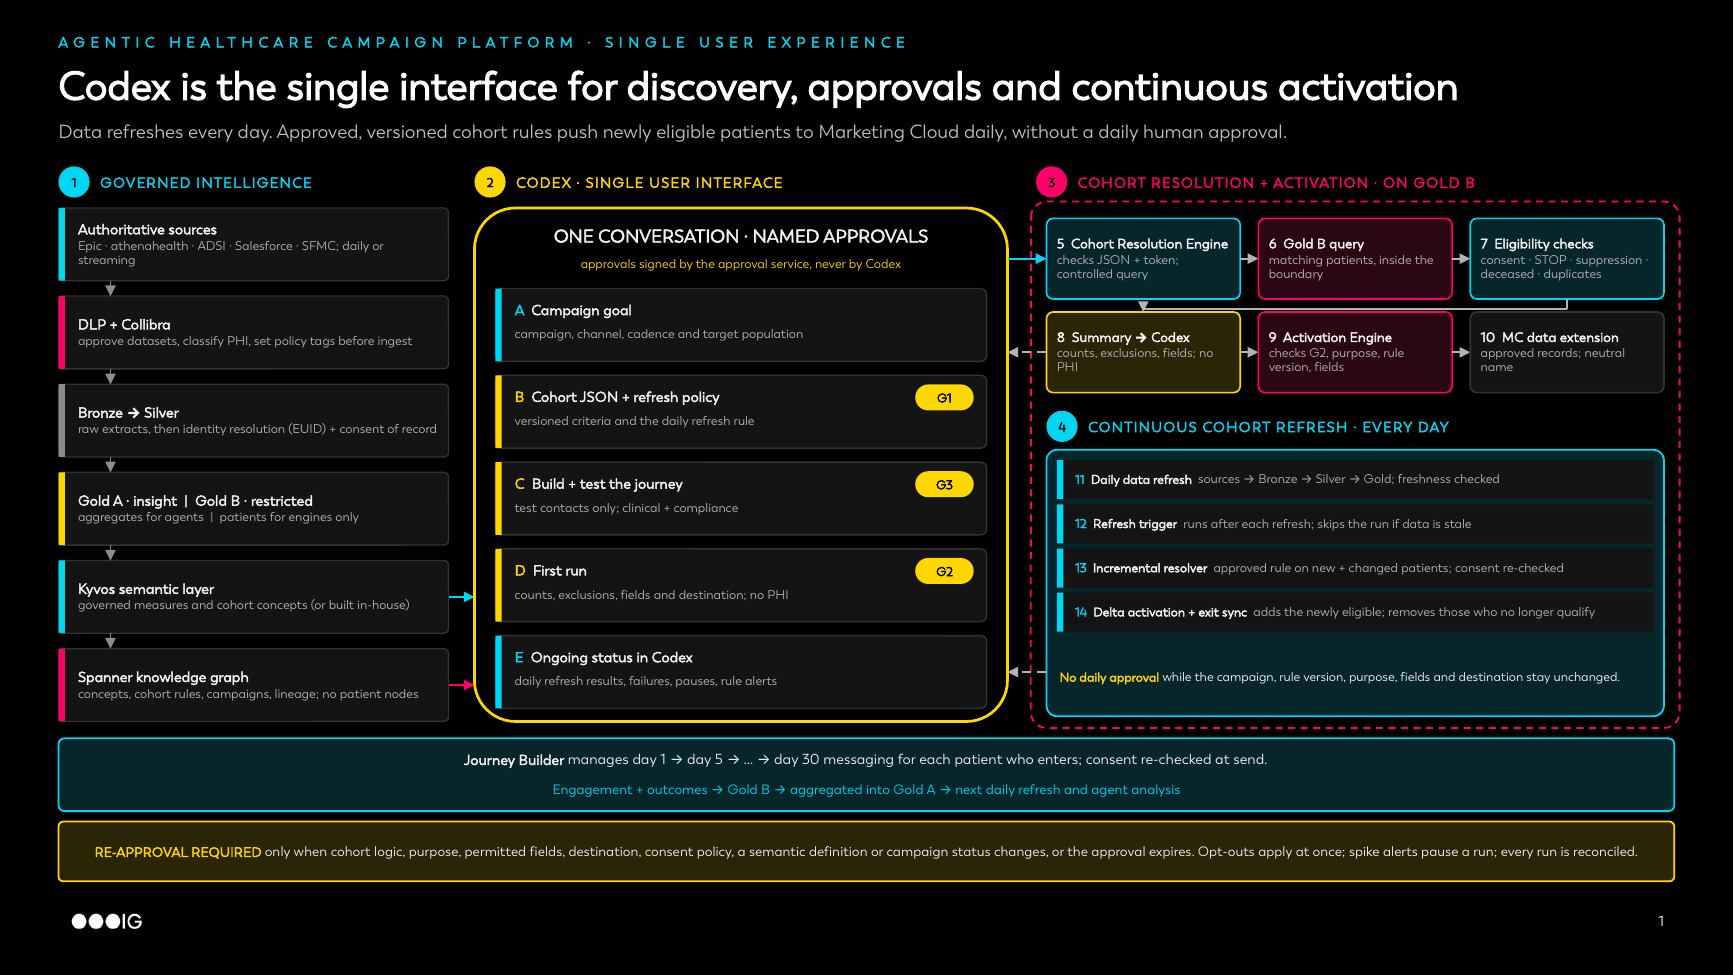
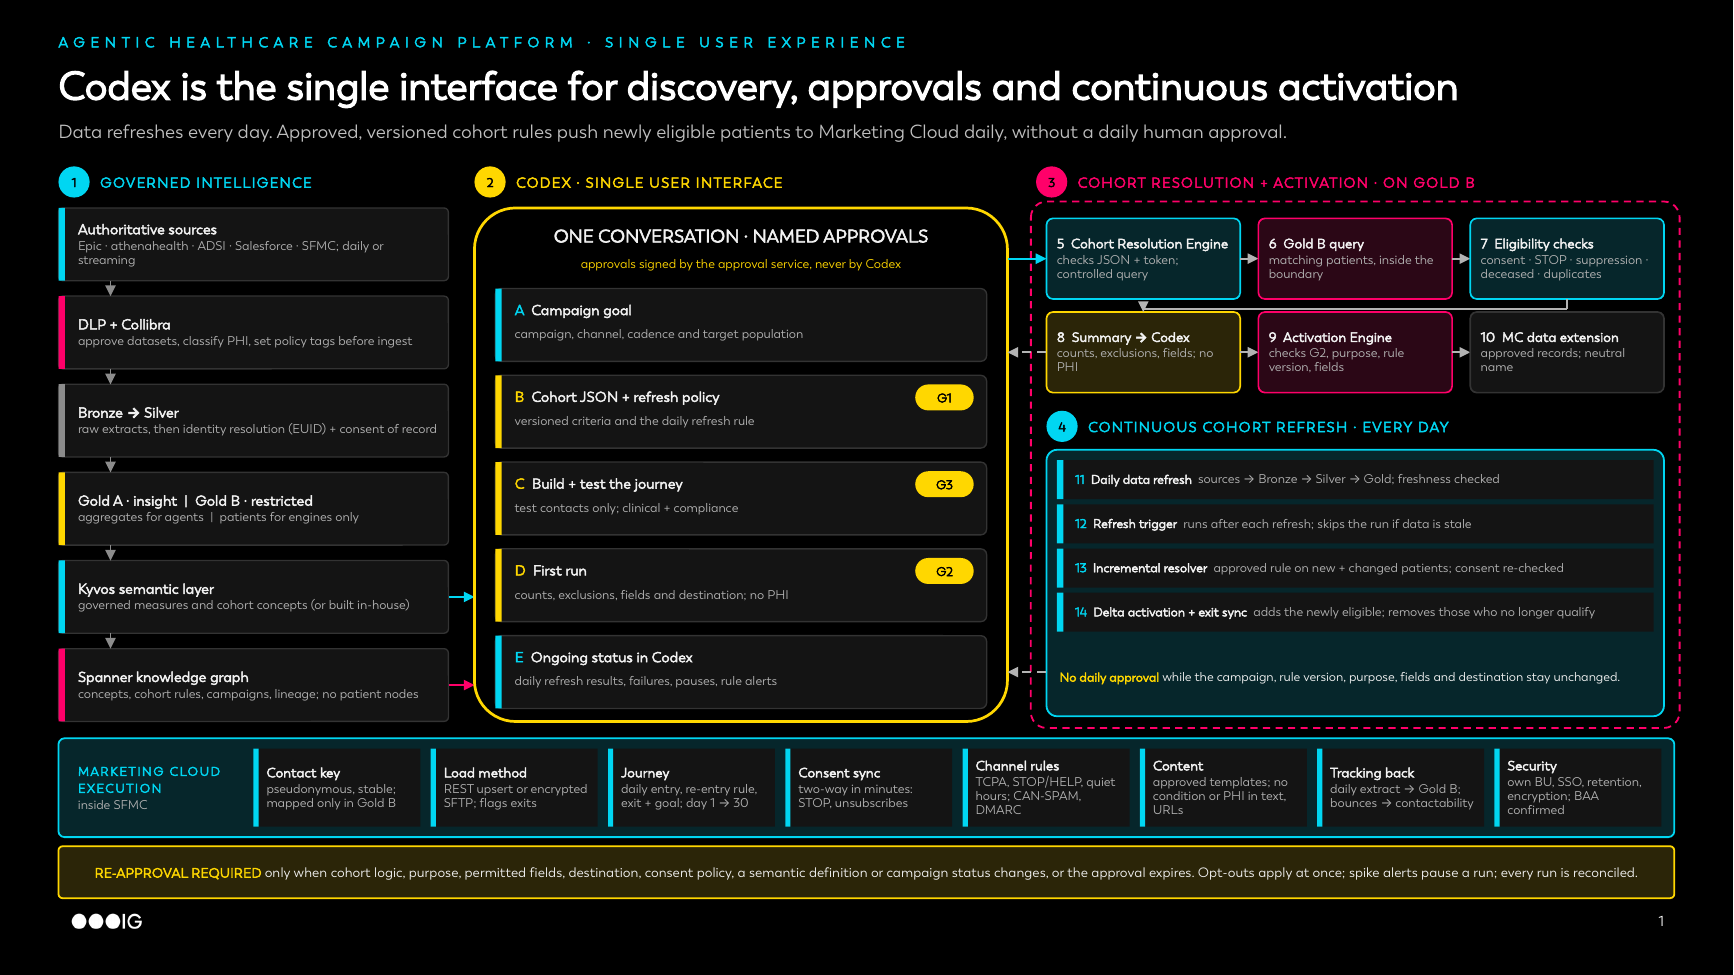
Preview: Marketing Cloud execution strip on the Codex slide
Eight tiles inside SFMC: contact key, load method, journey (daily entry,
re-entry, exit + goal, day 1 to 30), two-way consent sync, channel rules,
content rules, tracking back to Gold B, and security; it replaces the
Journey Builder band.

Claude-Session: https://claude.ai/code/session_01Hf94kqMzSofkkrQm7kpNba

Changed region(s): [[0.0311, 0.7692, 0.9654, 0.9231]]

diff --git a/poc/data_harness/architecture_v2.py b/poc/data_harness/architecture_v2.py
@@ -57,7 +57,7 @@ WALK IT
 2 Codex, middle: the goal; the cohort JSON with its refresh policy, approved at G1; the journey built and tested on test contacts, approved at G3; the first run's counts, approved at G2; then ongoing status. Approvals come from the approval service with named roles.
 3 Cohort resolution and activation, right: the Cohort Resolution Engine checks the JSON and token and builds a controlled query; Gold B finds the matching patients inside the protected boundary; eligibility checks apply consent, STOP, suppression, deceased, duplicates and contactability; a summary with no PHI goes back to Codex; after G2 the Campaign Activation Engine checks the G2 token, purpose, rule version and fields and loads the Marketing Cloud data extension.
 4 Continuous cohort refresh: every day the data refreshes and its freshness is checked; the refresh trigger runs after it, or skips the run if the data is stale; the incremental resolver applies the approved rule to new and changed patients and re-checks consent; delta activation adds the newly eligible and exit sync removes anyone who opted out, died or no longer qualifies. Each run's results show in Codex.
-Bottom: Journey Builder runs day 1 to day 30 for each patient who enters, re-checking consent at send; engagement and outcomes go into Gold B and are aggregated into Gold A for the next refresh. Re-approval only when the cohort logic, purpose, fields, destination, consent policy, a semantic definition or the campaign status changes, or the approval expires."""
+Marketing Cloud execution, bottom strip: a pseudonymous, stable contact key mapped only in Gold B; records loaded by REST upsert or encrypted SFTP, with exits flagged; Journey Builder with a daily entry schedule, a re-entry rule, exit criteria and a goal, running day 1 to day 30; consent synced both ways within minutes (SMS STOP and email unsubscribes back to the consent of record, opt-outs from elsewhere into SFMC suppression); channel rules (TCPA, STOP/HELP keywords, quiet hours in the patient's time zone, CAN-SPAM, sender authentication); approved templates with no condition or PHI in subject lines, SMS text or URLs; a daily tracking extract into Gold B, with bounces updating contactability; and a dedicated business unit with SSO, retention policies, encryption and the BAA confirmed for each SFMC service used. Re-approval only when the cohort logic, purpose, fields, destination, consent policy, a semantic definition or the campaign status changes, or the approval expires."""
 
 
 def slide_a(prs, layout):
@@ -165,22 +165,36 @@ def slide_a(prs, layout):
     cv.arrow(gx0, r1 + chh / 2, cxs[0], r1 + chh / 2, CYAN, 1.25)                    # cohort JSON + token
     cv.arrow(cxs[0], r2 + chh / 2, gx0, r2 + chh / 2, T2, 1.25, dash="dash")         # summary only
     cv.arrow(bx, sy[4] + sh / 2, gx0, sy[4] + sh / 2, T2, 1.25, dash="dash")         # daily status
-    # ---------------------------------------------------------------- bottom bands
-    jy = bot + 0.13
-    cv.rect(0.45, jy, 12.43, 0.56, "06262B", CYAN, 1.0, R, 0.08)
-    cv.text(0.6, jy + 0.04, 12.13, 0.24, [[("Journey Builder ", {"bold": True, "color": T1}),
-                                           ("manages day 1 → day 5 → … → day 30 messaging for each patient who "
-                                            "enters; consent re-checked at send.", {"color": T1})]], size=8,
-            align=PP_ALIGN.CENTER, anchor=MSO_ANCHOR.MIDDLE)
-    cv.text(0.6, jy + 0.28, 12.13, 0.22, "Engagement + outcomes → Gold B → aggregated into Gold A → next daily "
-            "refresh and agent analysis", size=7.5, color=CYAN, align=PP_ALIGN.CENTER, anchor=MSO_ANCHOR.MIDDLE)
-    ay_ = jy + 0.64
-    cv.rect(0.45, ay_, 12.43, 0.46, "2B2508", YELLOW, 1.0, R, 0.08)
-    cv.text(0.6, ay_, 12.13, 0.46, [[("RE-APPROVAL REQUIRED ", {"bold": True, "color": YELLOW}),
-                                     ("only when cohort logic, purpose, permitted fields, destination, consent "
-                                      "policy, a semantic definition or campaign status changes, or the approval "
-                                      "expires. Opt-outs apply at once; spike alerts pause a run; every run is "
-                                      "reconciled.", {"color": T1})]], size=7.5, align=PP_ALIGN.CENTER,
+    # ---------------------------------------------------------------- Marketing Cloud execution
+    jy, jh = bot + 0.13, 0.76
+    cv.rect(0.45, jy, 12.43, jh, "06262B", CYAN, 1.0, R, 0.06)
+    cv.text(0.6, jy, 1.3, jh, [[("MARKETING CLOUD", {"bold": True, "color": CYAN, "track": 80})],
+                               [("EXECUTION", {"bold": True, "color": CYAN, "track": 80})],
+                               [("inside SFMC", {"color": T2})]], size=7, anchor=MSO_ANCHOR.MIDDLE, after=1)
+    mc = [("Contact key", "pseudonymous, stable; mapped only in Gold B"),
+          ("Load method", "REST upsert or encrypted SFTP; flags exits"),
+          ("Journey", "daily entry, re-entry rule, exit + goal; day 1 → 30"),
+          ("Consent sync", "two-way in minutes: STOP, unsubscribes"),
+          ("Channel rules", "TCPA, STOP/HELP, quiet hours; CAN-SPAM, DMARC"),
+          ("Content", "approved templates; no condition or PHI in text, URLs"),
+          ("Tracking back", "daily extract → Gold B; bounces → contactability"),
+          ("Security", "own BU, SSO, retention, encryption; BAA confirmed")]
+    tw = (12.88 - 0.1 - 1.95 - 7 * 0.08) / 8
+    for k, (t, d) in enumerate(mc):
+        x = 1.95 + k * (tw + 0.08)
+        cv.rect(x, jy + 0.08, tw, jh - 0.16, CARD, None)
+        cv.rect(x, jy + 0.08, 0.04, jh - 0.16, CYAN, None)
+        cv.text(x + 0.1, jy + 0.1, tw - 0.14, jh - 0.2, [[(t, {"bold": True, "color": T1, "size": 7.5})],
+                                                        [(d, {"color": T2})]], size=7, anchor=MSO_ANCHOR.MIDDLE,
+                after=1, line=0.92)
+    # ---------------------------------------------------------------- re-approval
+    ay_ = jy + jh + 0.07
+    cv.rect(0.45, ay_, 12.43, 0.4, "2B2508", YELLOW, 1.0, R, 0.08)
+    cv.text(0.6, ay_, 12.13, 0.4, [[("RE-APPROVAL REQUIRED ", {"bold": True, "color": YELLOW}),
+                                    ("only when cohort logic, purpose, permitted fields, destination, consent "
+                                     "policy, a semantic definition or campaign status changes, or the approval "
+                                     "expires. Opt-outs apply at once; spike alerts pause a run; every run is "
+                                     "reconciled.", {"color": T1})]], size=7.5, align=PP_ALIGN.CENTER,
             anchor=MSO_ANCHOR.MIDDLE)
     set_notes(s, NOTES_A)
     return s
